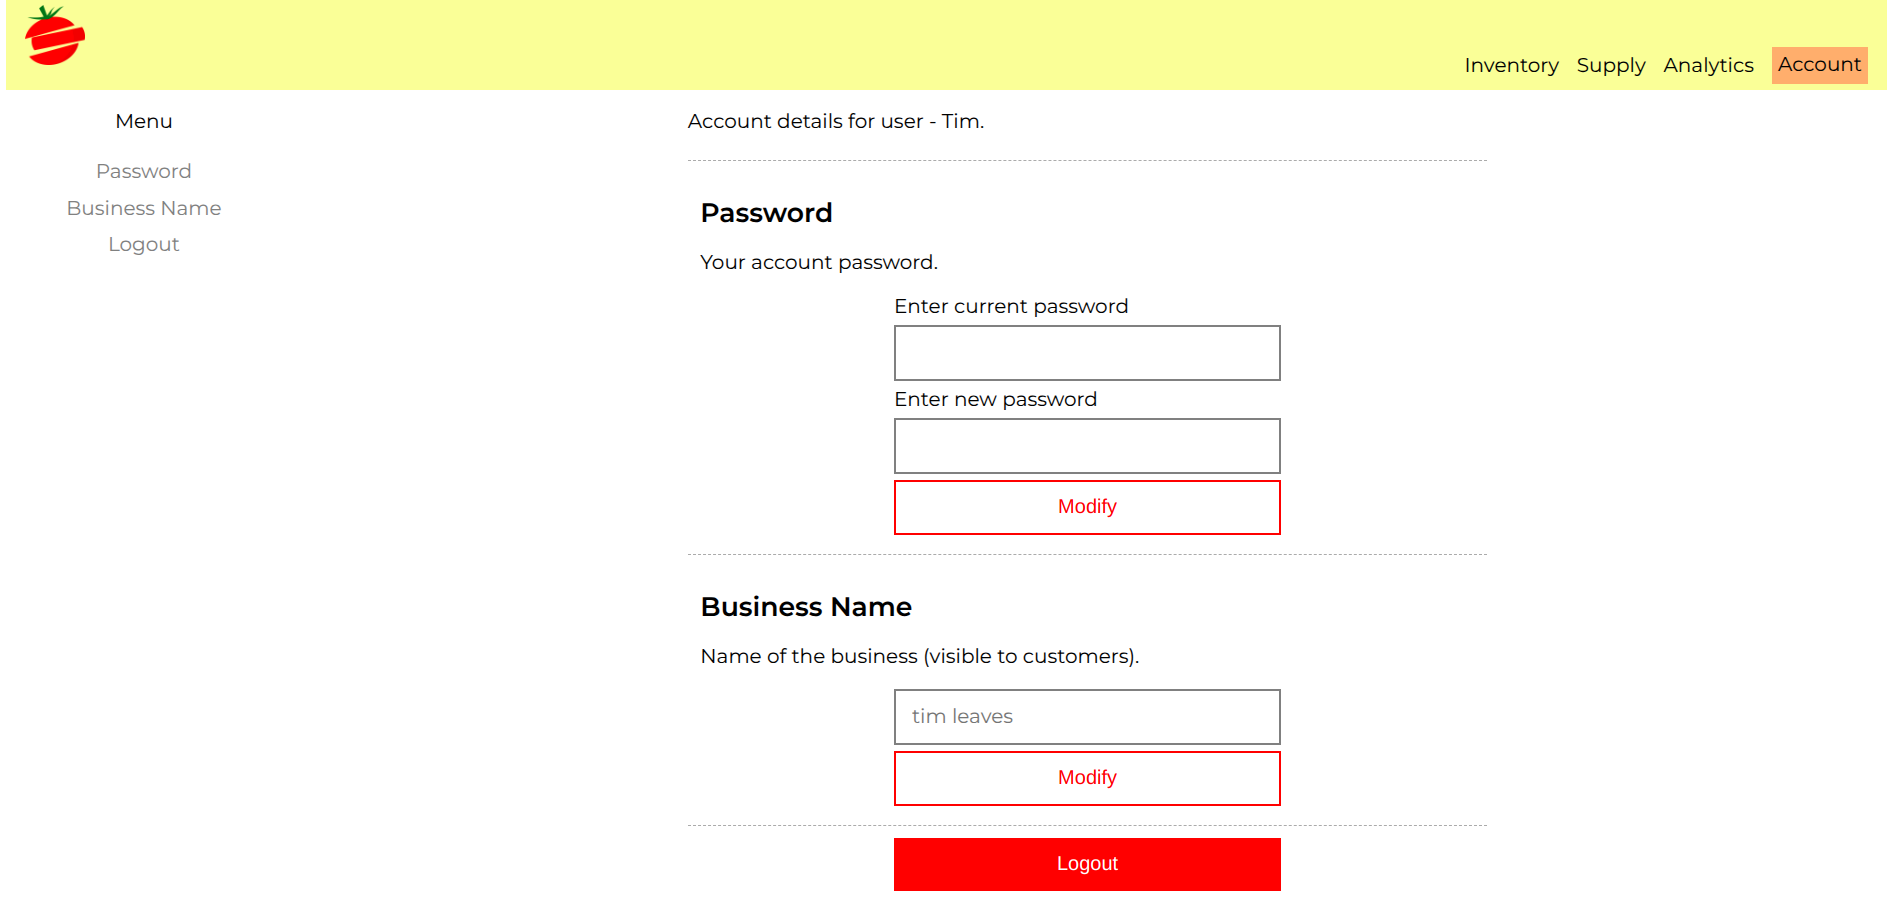
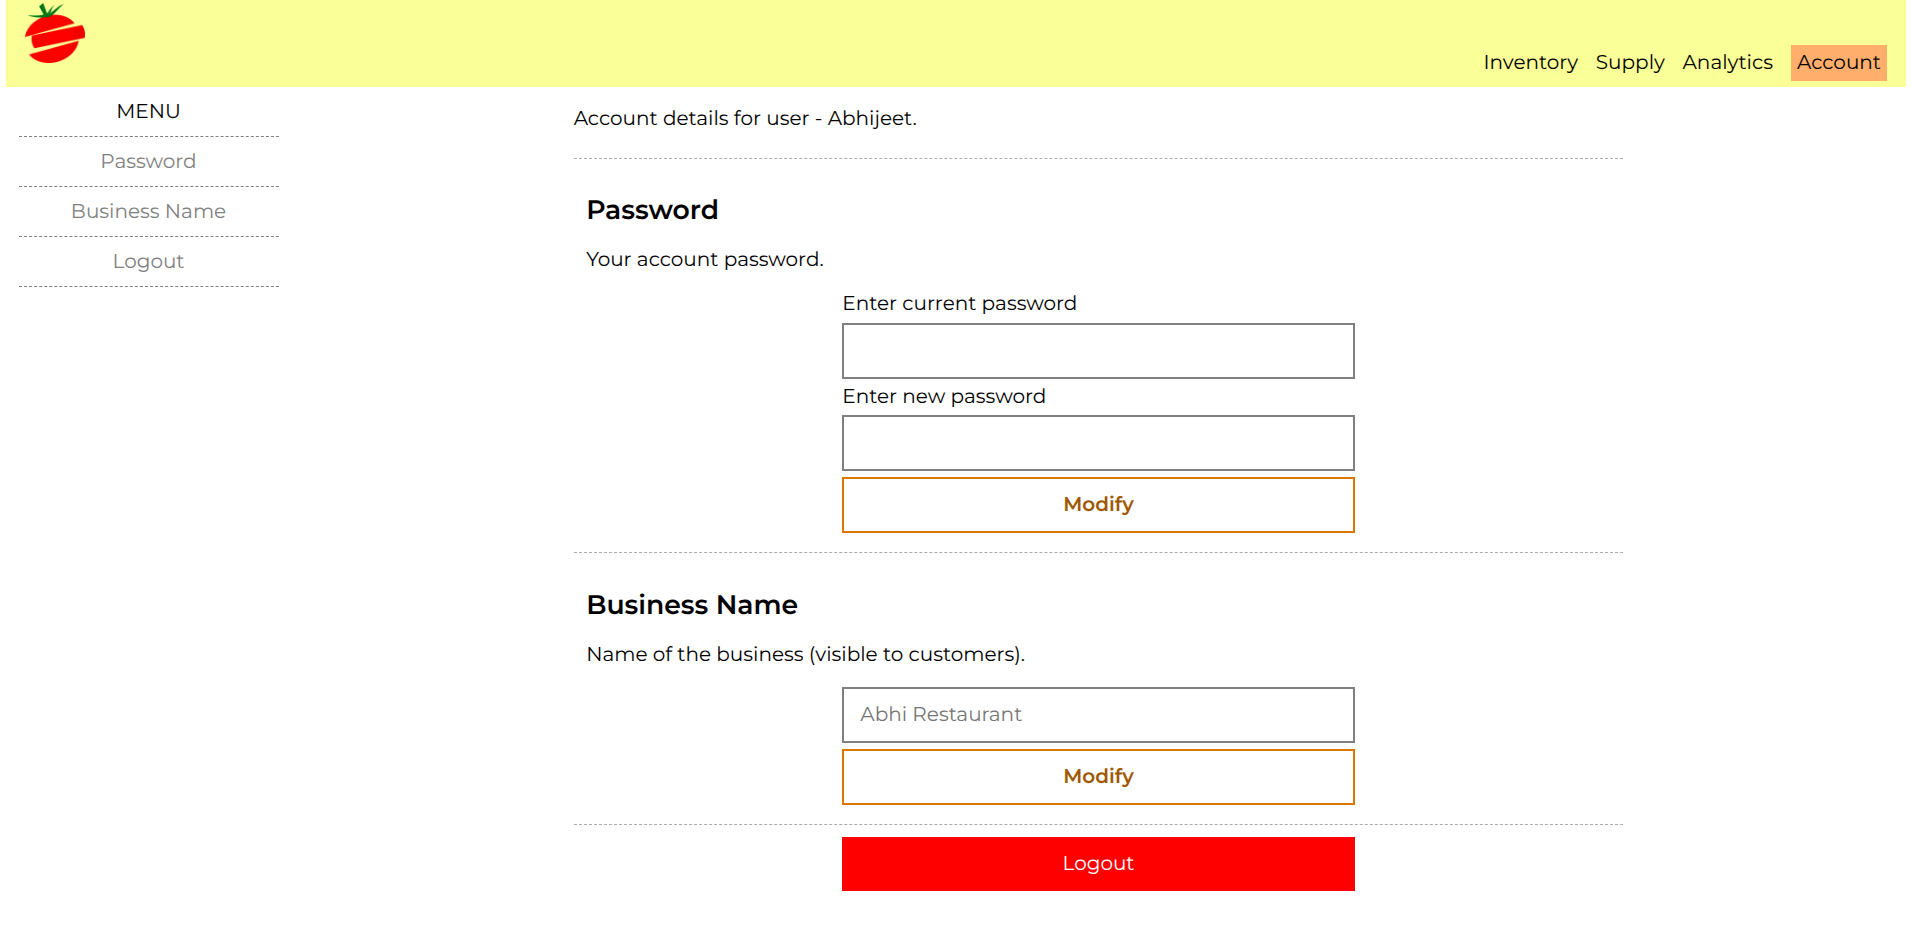
Little visual and gallery updates.

diff --git a/kinventory/templates/inventory_views/base.html b/kinventory/templates/inventory_views/base.html
@@ -27,7 +27,7 @@ Inventory - {{g.user['business_name']}}
     </nav>
 
     <nav id="page_navigation">
-
+        MENU
         {% block pagenav %}
         {% endblock %}
 
